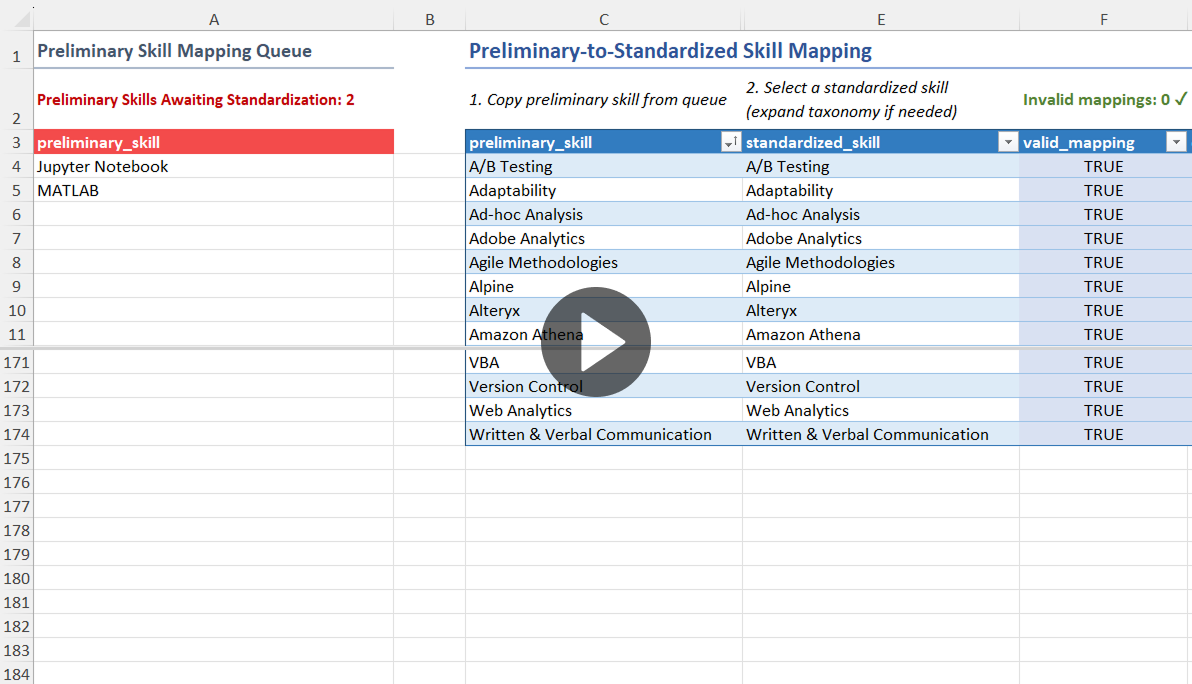
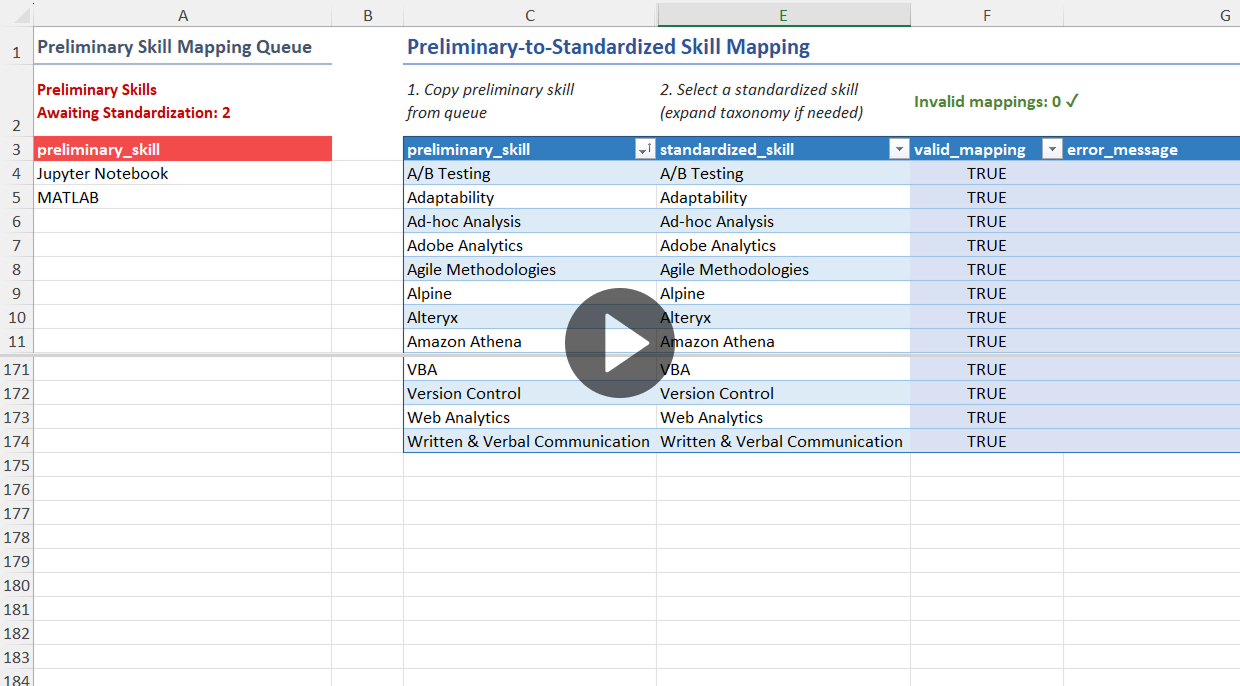
Replace preliminary skills queue video with narrower recording

diff --git a/skill-standardization-pipeline/index.html b/skill-standardization-pipeline/index.html
@@ -1209,8 +1209,8 @@
                 <a
                     href="assets/images/preliminary_skills_queue.mp4"
                     data-pswp-src="assets/images/preliminary_skills_queue.mp4"
-                    data-pswp-width="1538"
-                    data-pswp-height="682"
+                    data-pswp-width="1240"
+                    data-pswp-height="686"
                     data-pswp-type="video"
                     target="_blank"
                 >